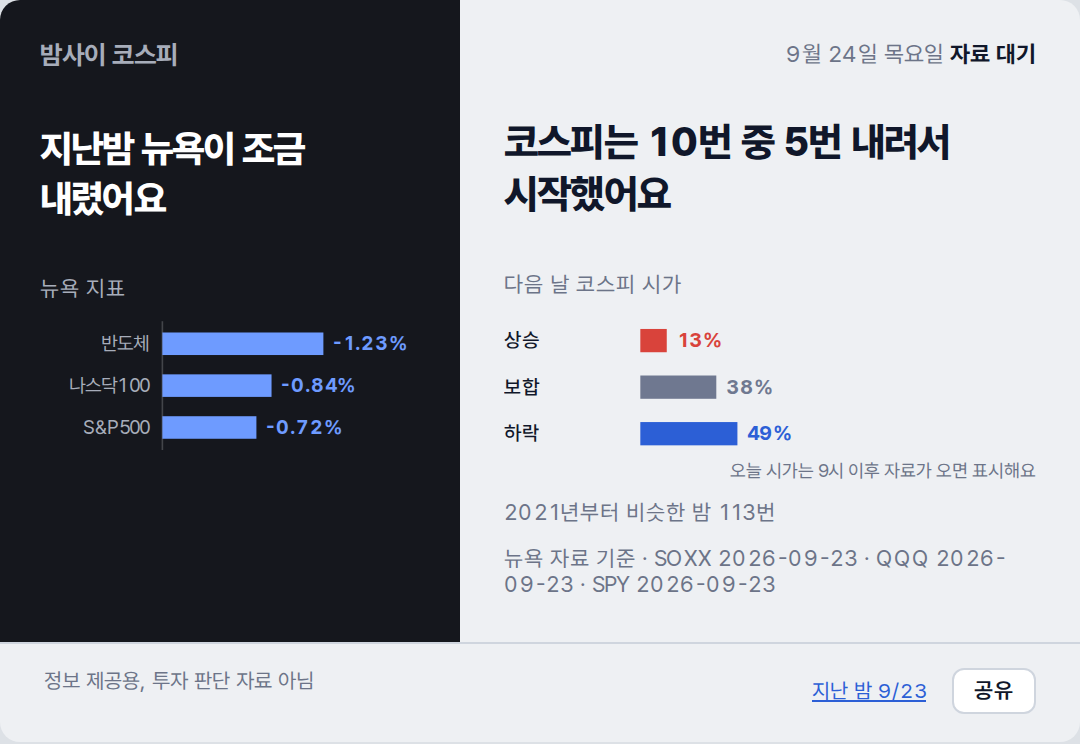
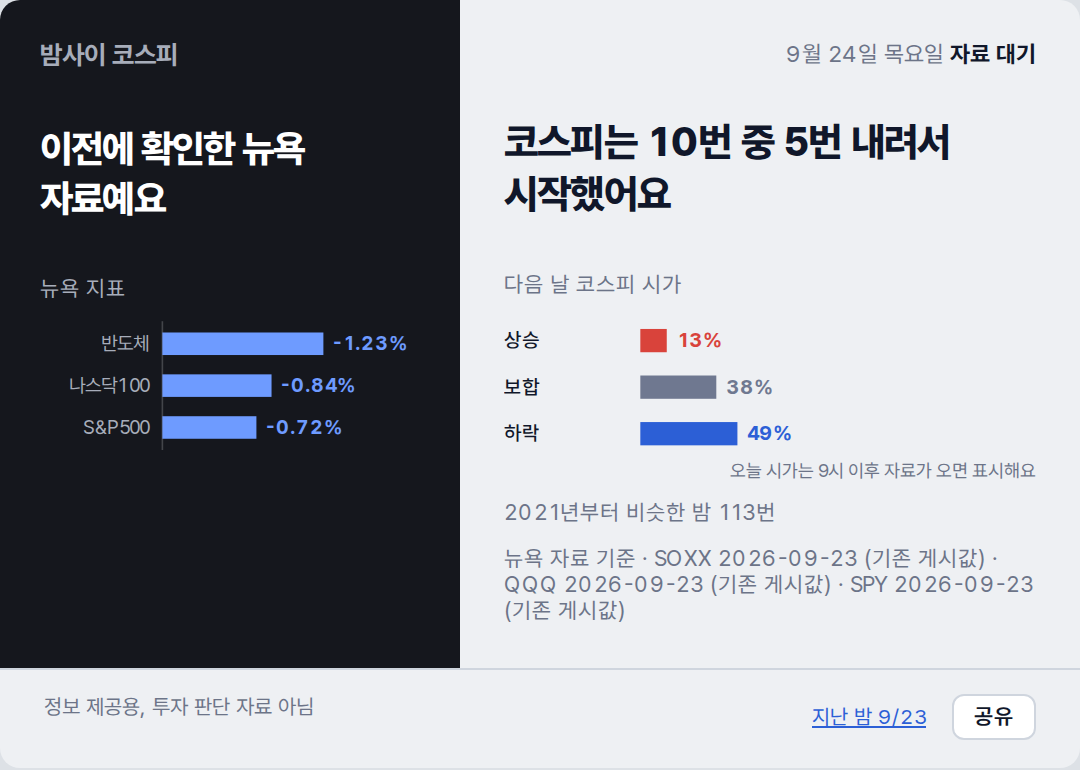
deploy: 96d35760b6398d8556fcb16894561d038e839a17

diff --git a/2026-09-24/index.html b/2026-09-24/index.html
@@ -2,7 +2,7 @@
 <title>밤사이 코스피 · 2026-09-24</title>
 <meta name="description" content="전일 코스피 마감에서 밤사이 뉴욕을 거쳐 오늘 코스피 시가까지, 한 장.">
 <meta property="og:type" content="article"><meta property="og:site_name" content="밤사이 코스피"><meta property="og:url" content="https://mjs0611.github.io/kospi-relay/2026-09-24/">
-<meta property="og:title" content="지난밤 뉴욕이 조금 내렸어요"><meta property="og:description" content="코스피는 10번 중 5번 내려서 시작했어요">
+<meta property="og:title" content="이전에 확인한 뉴욕 자료예요"><meta property="og:description" content="코스피는 10번 중 5번 내려서 시작했어요">
 <meta property="og:image" content="https://mjs0611.github.io/kospi-relay/2026-09-24/relay.png"><meta property="og:image:width" content="1080"><meta name="twitter:card" content="summary_large_image">
 <link rel="stylesheet" href="https://cdn.jsdelivr.net/gh/orioncactus/pretendard@v1.3.9/dist/web/variable/pretendardvariable-dynamic-subset.min.css">
 <style>
@@ -26,7 +26,7 @@ footer a{color:#2C5FD6}
 .share{margin-left:10px;border:1px solid #CFD5DE;background:#FFF;color:#10172A;border-radius:6px;padding:4px 10px;font:600 11px var(--sans);cursor:pointer}
 @media (max-width:480px){.sheet{grid-template-columns:1fr}.cond{margin-top:18px}.claim{margin-top:4px}}
 </style></head><body><div class="sheet">
-<section class="night"><p class="brand">밤사이 코스피</p><p class="cond">지난밤 뉴욕이 조금 내렸어요</p><p class="lab">뉴욕 지표</p><svg viewBox="0 0 236 84" xmlns="http://www.w3.org/2000/svg" font-family="var(--sans)" font-size="12">
+<section class="night"><p class="brand">밤사이 코스피</p><p class="cond">이전에 확인한 뉴욕 자료예요</p><p class="lab">뉴욕 지표</p><svg viewBox="0 0 236 84" xmlns="http://www.w3.org/2000/svg" font-family="var(--sans)" font-size="12">
 <line x1="76" y1="2" x2="76" y2="82" stroke="var(--rule)" stroke-width="1"/>
 <text x="68" y="20" text-anchor="end" fill="var(--muted)">반도체</text>
 <rect x="76" y="9" width="100.0" height="14" fill="var(--down)"/>
@@ -49,12 +49,12 @@ footer a{color:#2C5FD6}
 <rect x="82" y="65" width="58.4" height="14" fill="var(--down)"/>
 <text x="146.4" y="76" fill="var(--down)" font-weight="700">49%</text>
 <text x="320" y="98" text-anchor="end" fill="var(--muted)" font-size="11">오늘 시가는 9시 이후 자료가 오면 표시해요</text>
-</svg><p class="cap">2021년부터 비슷한 밤 113번</p><p class="cap">뉴욕 자료 기준 · SOXX 2026-09-23 · QQQ 2026-09-23 · SPY 2026-09-23</p></section>
+</svg><p class="cap">2021년부터 비슷한 밤 113번</p><p class="cap">뉴욕 자료 기준 · SOXX 2026-09-23 (기존 게시값) · QQQ 2026-09-23 (기존 게시값) · SPY 2026-09-23 (기존 게시값)</p></section>
 <footer><span>정보 제공용, 투자 판단 자료 아님</span><span style="white-space:nowrap"><a href="../2026-09-23/">지난 밤 9/23</a> <button class="share" type="button">공유</button></span></footer>
 <script>
 /* 공유: Web Share가 있으면 시스템 공유 시트, 없으면 링크 복사. 링크는 이 날짜 페이지(OG 카드 붙음) */
 document.querySelector('.share').addEventListener('click', async function () {
-  var url = 'https://mjs0611.github.io/kospi-relay/2026-09-24/', text = "지난밤 뉴욕이 조금 내렸어요. 코스피는 10번 중 5번 내려서 시작했어요";
+  var url = 'https://mjs0611.github.io/kospi-relay/2026-09-24/', text = "이전에 확인한 뉴욕 자료예요. 코스피는 10번 중 5번 내려서 시작했어요";
   try { if (navigator.share) { await navigator.share({ title: '밤사이 코스피', text: text, url: url }); return; } } catch (e) { return; }
   try { await navigator.clipboard.writeText(text + '
 ' + url); this.textContent = '링크 복사됨'; } catch (e) { location.href = url; }

diff --git a/index.html b/index.html
@@ -2,7 +2,7 @@
 <title>밤사이 코스피 · 2026-09-24</title>
 <meta name="description" content="전일 코스피 마감에서 밤사이 뉴욕을 거쳐 오늘 코스피 시가까지, 한 장.">
 <meta property="og:type" content="article"><meta property="og:site_name" content="밤사이 코스피"><meta property="og:url" content="https://mjs0611.github.io/kospi-relay/2026-09-24/">
-<meta property="og:title" content="지난밤 뉴욕이 조금 내렸어요"><meta property="og:description" content="코스피는 10번 중 5번 내려서 시작했어요">
+<meta property="og:title" content="이전에 확인한 뉴욕 자료예요"><meta property="og:description" content="코스피는 10번 중 5번 내려서 시작했어요">
 <meta property="og:image" content="https://mjs0611.github.io/kospi-relay/2026-09-24/relay.png"><meta property="og:image:width" content="1080"><meta name="twitter:card" content="summary_large_image">
 <link rel="stylesheet" href="https://cdn.jsdelivr.net/gh/orioncactus/pretendard@v1.3.9/dist/web/variable/pretendardvariable-dynamic-subset.min.css">
 <style>
@@ -26,7 +26,7 @@ footer a{color:#2C5FD6}
 .share{margin-left:10px;border:1px solid #CFD5DE;background:#FFF;color:#10172A;border-radius:6px;padding:4px 10px;font:600 11px var(--sans);cursor:pointer}
 @media (max-width:480px){.sheet{grid-template-columns:1fr}.cond{margin-top:18px}.claim{margin-top:4px}}
 </style></head><body><div class="sheet">
-<section class="night"><p class="brand">밤사이 코스피</p><p class="cond">지난밤 뉴욕이 조금 내렸어요</p><p class="lab">뉴욕 지표</p><svg viewBox="0 0 236 84" xmlns="http://www.w3.org/2000/svg" font-family="var(--sans)" font-size="12">
+<section class="night"><p class="brand">밤사이 코스피</p><p class="cond">이전에 확인한 뉴욕 자료예요</p><p class="lab">뉴욕 지표</p><svg viewBox="0 0 236 84" xmlns="http://www.w3.org/2000/svg" font-family="var(--sans)" font-size="12">
 <line x1="76" y1="2" x2="76" y2="82" stroke="var(--rule)" stroke-width="1"/>
 <text x="68" y="20" text-anchor="end" fill="var(--muted)">반도체</text>
 <rect x="76" y="9" width="100.0" height="14" fill="var(--down)"/>
@@ -49,12 +49,12 @@ footer a{color:#2C5FD6}
 <rect x="82" y="65" width="58.4" height="14" fill="var(--down)"/>
 <text x="146.4" y="76" fill="var(--down)" font-weight="700">49%</text>
 <text x="320" y="98" text-anchor="end" fill="var(--muted)" font-size="11">오늘 시가는 9시 이후 자료가 오면 표시해요</text>
-</svg><p class="cap">2021년부터 비슷한 밤 113번</p><p class="cap">뉴욕 자료 기준 · SOXX 2026-09-23 · QQQ 2026-09-23 · SPY 2026-09-23</p></section>
+</svg><p class="cap">2021년부터 비슷한 밤 113번</p><p class="cap">뉴욕 자료 기준 · SOXX 2026-09-23 (기존 게시값) · QQQ 2026-09-23 (기존 게시값) · SPY 2026-09-23 (기존 게시값)</p></section>
 <footer><span>정보 제공용, 투자 판단 자료 아님</span><span style="white-space:nowrap"><a href="./2026-09-23/">지난 밤 9/23</a> <button class="share" type="button">공유</button></span></footer>
 <script>
 /* 공유: Web Share가 있으면 시스템 공유 시트, 없으면 링크 복사. 링크는 이 날짜 페이지(OG 카드 붙음) */
 document.querySelector('.share').addEventListener('click', async function () {
-  var url = 'https://mjs0611.github.io/kospi-relay/2026-09-24/', text = "지난밤 뉴욕이 조금 내렸어요. 코스피는 10번 중 5번 내려서 시작했어요";
+  var url = 'https://mjs0611.github.io/kospi-relay/2026-09-24/', text = "이전에 확인한 뉴욕 자료예요. 코스피는 10번 중 5번 내려서 시작했어요";
   try { if (navigator.share) { await navigator.share({ title: '밤사이 코스피', text: text, url: url }); return; } } catch (e) { return; }
   try { await navigator.clipboard.writeText(text + '
 ' + url); this.textContent = '링크 복사됨'; } catch (e) { location.href = url; }
